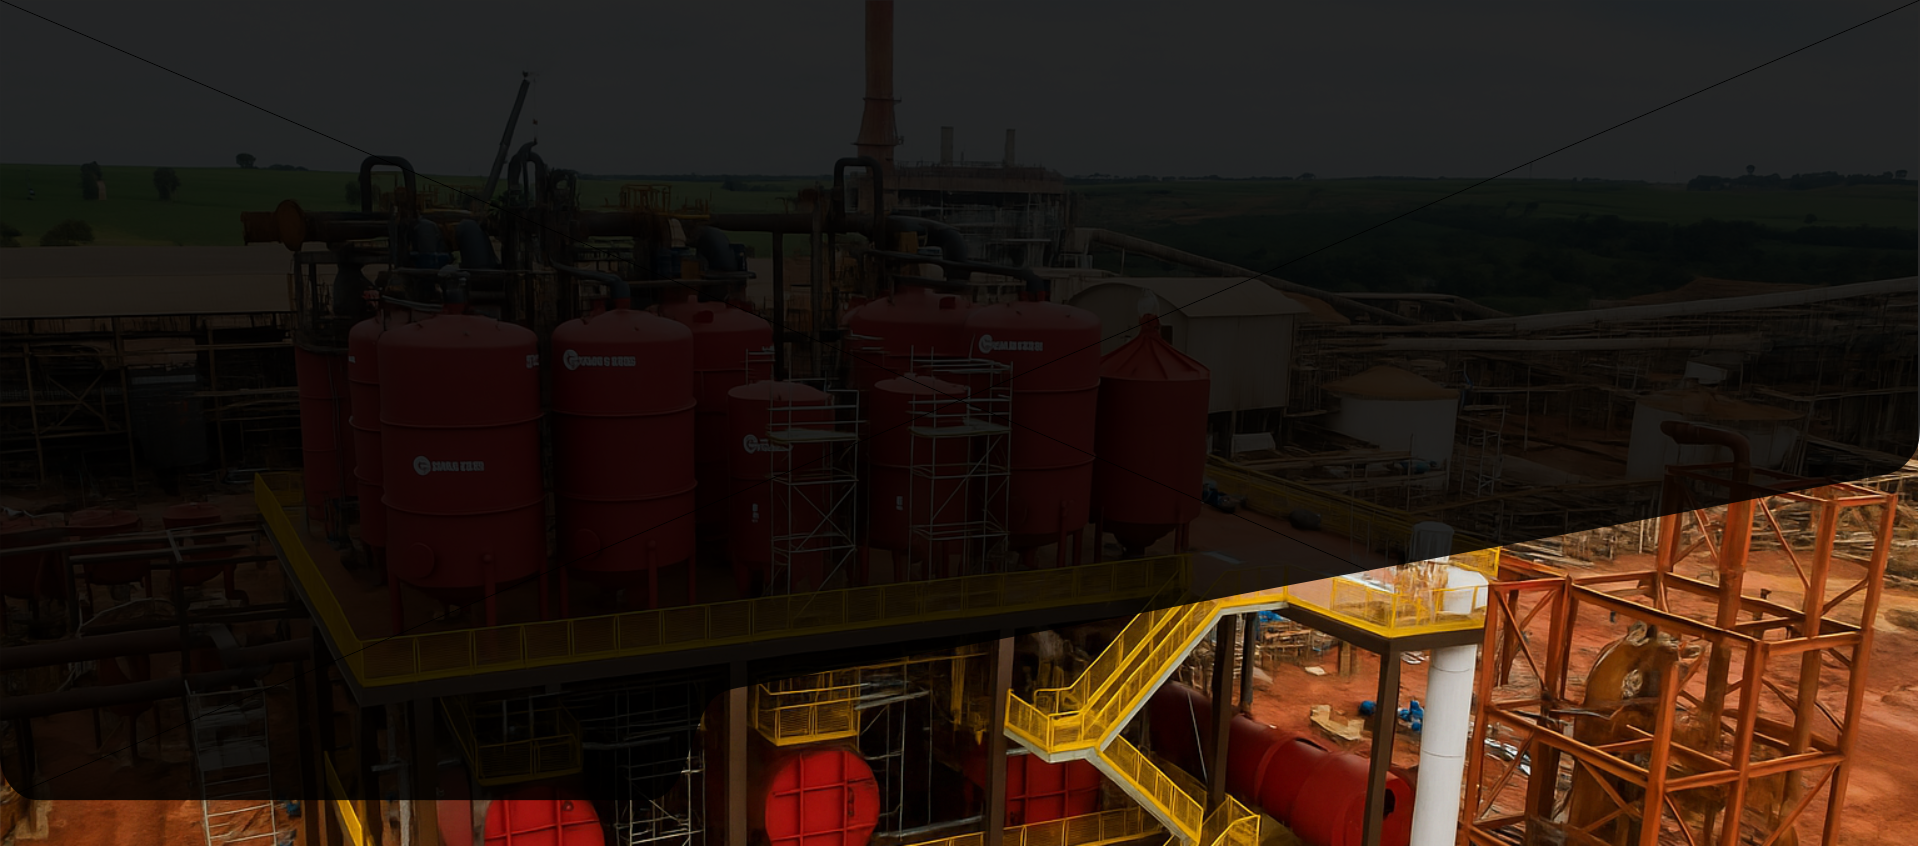
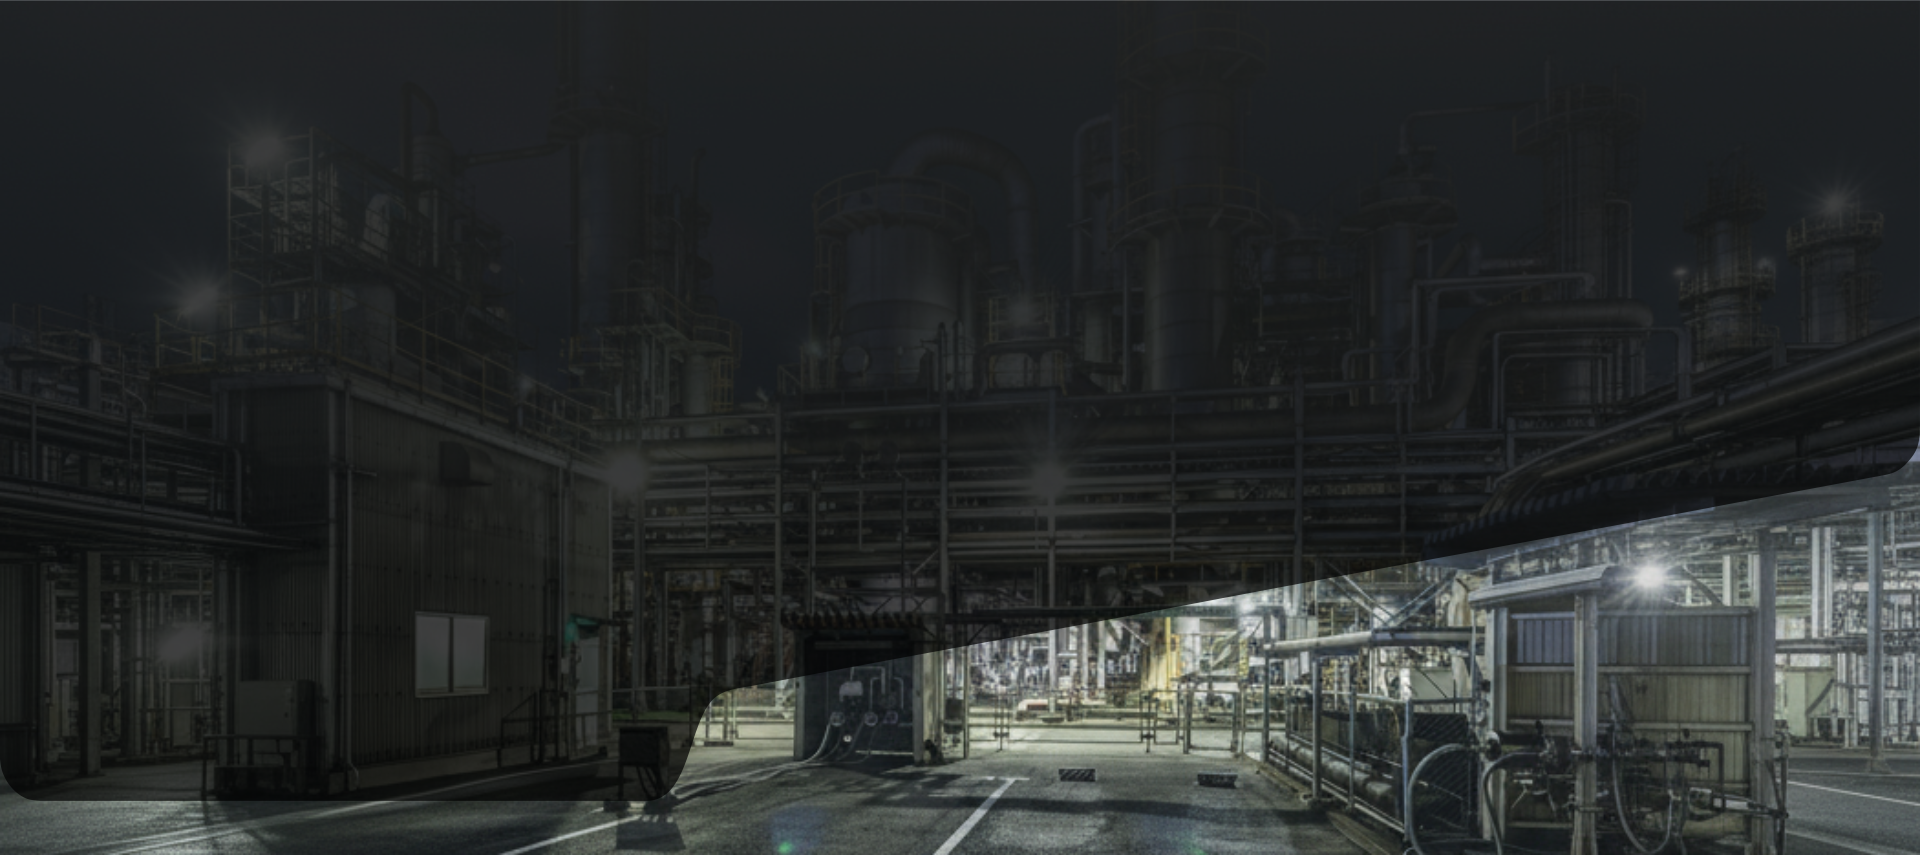
update site

diff --git a/pages/index.vue b/pages/index.vue
@@ -47,7 +47,7 @@
                 </div>
               </div>
             </div>
-            <div class="lg:w-[45%]"> 
+            <div class="lg:w-[45%] mt-8"> 
               <AtomImage :imageUrl="twaCompany" width="100%" height="auto" class="rounded-lg" />
             </div>
           </div>
@@ -66,7 +66,7 @@
       </v-col>
       <v-col cols="12" md="3" class="p-4 bg-white flex align-center justify-center h-[200px]">
         <div class="text-center">
-          <AtomCounting targetNumber="300" class="text-black" :plus="true" :duration="3000" />
+          <AtomCounting targetNumber="400" class="text-black" :plus="true" :duration="3000" />
           <div class="text-xl mt-2">colaboradores</div>
         </div>
       </v-col>
@@ -132,8 +132,8 @@
         <AtomAnimationFocus>
           <div class="flex align-start mb-4">
             <div class="w-[100%]">
-              <div class="text-xl text-red mb-2">Qualidade em </div>
-              <div class="text-3xl">Nossos Serviços</div>
+              <!-- <div class="text-xl text-red mb-2">Qualidade em </div> -->
+              <div class="text-3xl text-red mt-4">Nossos Serviços</div>
               <div class="flex">
                 <!-- <div class="pa-8">Video ou Foto</div> -->
                 <div class="lg:pr-8">
@@ -152,10 +152,12 @@
         </AtomAnimationFocus>
         <AtomAnimationFocus>
           <div class="lg:flex align-start">
-            <div class="lg:w-[27%] my-8 my-md-0"> 
-              <AtomImage :imageUrl="manufacturingMountain" width="100%" height="auto" class="rounded-lg" />
+            <div class="lg:w-[40%] my-8 my-md-0"> 
+              <div class="lg:flex align-start w-full">
+                <MoleculeGalleryView :images="imagesMountList" :initialItemsPerLine="3" />
+              </div>
             </div>
-            <div class="lg:w-[73%] lg:ml-10">
+            <div class="lg:w-[60%] lg:ml-10">
               <div class="text-3xl">Fabricação e Montagem de Equipamentos Industriais</div>
               <div class="flex">
                 <div class="lg:pr-8">
@@ -186,7 +188,7 @@
         </AtomAnimationFocus>
         <AtomAnimationFocus>
           <div class="lg:flex align-start mt-10 ">
-            <div class="lg:w-[73%]">
+            <div class="lg:w-[60%]">
               <div class="text-xl text-red mb-2">Manutenção de</div>
               <div class="text-3xl">Equipamentos Industriais</div>
               <div class="flex">
@@ -201,9 +203,11 @@
                   </div>
                 </div>
               </div>
-              <div class="lg:w-[27%] my-8 my-lg-0 flex lg:hidden"> 
-                <AtomImage :imageUrl="maintenance" width="100%" height="auto" class="rounded-lg" />
+             <div class="lg:w-[40%] my-8 my-lg-0 flex lg:hidden"> 
+              <div class="lg:flex align-start w-full">
+                <MoleculeGalleryView :images="imagesManutList" :initialItemsPerLine="3" />
               </div>
+            </div>
               <div class="text-center text-md-start mt-8 mb-10 lg:mb-0">
                 <AtomButton size="large" color="red" class="text-white text-body-1" @click="goToPage('manutencao')">
                   <div class="flex align-center">
@@ -214,36 +218,19 @@
                 </AtomButton>
               </div>
             </div>
-            <div class="lg:w-[27%] my-8 my-lg-0 lg:flex hidden"> 
-              <AtomImage :imageUrl="maintenance" width="100%" height="auto" class="rounded-lg" />
+            <div class="lg:w-[40%] my-8 my-lg-0 lg:flex hidden"> 
+              <div class="lg:flex align-start w-full">
+                <MoleculeGalleryView :images="imagesManutList" :initialItemsPerLine="3" />
+              </div>
             </div>
           </div>
         </AtomAnimationFocus>
         <AtomAnimationFocus>
           <div class="lg:flex align-start mt-10">
-            <div class="lg:w-[35%] hidden lg:flex lg:mr-10"> 
-              <v-row>
-                <v-col cols="6" md="4">
-                  <div class="rounded-lg" :style="`background: url(${locacao1}); width: 100%; height:150px; background-size:cover`"></div>
-                </v-col>
-                <v-col cols="6" md="4">
-                  <div class="rounded-lg" :style="`background: url(${locacao2}); width: 100%; height:150px; background-size:cover`"></div>
-                </v-col>
-                <v-col cols="6" md="4">
-                  <div class="rounded-lg" :style="`background: url(${locacao3}); width: 100%; height:150px; background-size:cover`"></div>
-                </v-col>
-                <v-col cols="6" md="4">
-                  <div class="rounded-lg" :style="`background: url(${locacao4}); width: 100%; height:150px; background-size:cover`"></div>
-                </v-col>
-                <v-col cols="6" md="4">
-                  <div class="rounded-lg" :style="`background: url(${locacao5}); width: 100%; height:150px; background-size:cover`"></div>
-                </v-col>
-                <v-col cols="6" md="4">
-                  <div class="rounded-lg" :style="`background: url(${locacao6}); width: 100%; height:150px; background-size:cover`"></div>
-                </v-col>
-              </v-row>
+            <div class="lg:w-[40%] hidden lg:flex lg:mr-10"> 
+              <MoleculeGalleryView :images="imagesLocList" :initialItemsPerLine="3" :height="150" />
             </div>
-            <div class="lg:w-[65%]">
+            <div class="lg:w-[60%]">
               <div class="text-xl text-red mb-2">Locação de</div>
               <div class="text-3xl">Guindastes e Guindauto</div>
               <div class="flex">
@@ -258,27 +245,8 @@
                   </div>
                 </div>
               </div>
-              <div class="lg:w-[35%] flex lg:hidden lg:mr-10 mt-8"> 
-                <v-row>
-                  <v-col cols="6" md="4">
-                    <div class="rounded-lg" :style="`background: url(${locacao1}); width: 100%; height:150px; background-size:cover`"></div>
-                  </v-col>
-                  <v-col cols="6" md="4">
-                    <div class="rounded-lg" :style="`background: url(${locacao2}); width: 100%; height:150px; background-size:cover`"></div>
-                  </v-col>
-                  <v-col cols="6" md="4">
-                    <div class="rounded-lg" :style="`background: url(${locacao3}); width: 100%; height:150px; background-size:cover`"></div>
-                  </v-col>
-                  <v-col cols="6" md="4">
-                    <div class="rounded-lg" :style="`background: url(${locacao4}); width: 100%; height:150px; background-size:cover`"></div>
-                  </v-col>
-                  <v-col cols="6" md="4">
-                    <div class="rounded-lg" :style="`background: url(${locacao5}); width: 100%; height:150px; background-size:cover`"></div>
-                  </v-col>
-                  <v-col cols="6" md="4">
-                    <div class="rounded-lg" :style="`background: url(${locacao6}); width: 100%; height:150px; background-size:cover`"></div>
-                  </v-col>
-                </v-row>
+              <div class="lg:w-[40%] flex lg:hidden lg:mr-10 mt-8"> 
+                <MoleculeGalleryView :images="imagesLocList" :initialItemsPerLine="3" :height="150" />
               </div>
               <div class="text-center text-md-start mt-8">
                 <AtomButton size="large" color="red" class="text-white text-body-1" @click="goToPage('locacao-guindastes')">
@@ -303,6 +271,8 @@ import nestle from '@/assets/images/clientes/nestle.jpg';
 import saoMartinho from '@/assets/images/clientes/sao-martinho.jpg';
 import adm from '@/assets/images/clientes/adm.jpg';
 import abengoa from '@/assets/images/clientes/abengoa.jpg';
+import jalles from '@/assets/images/clientes/jalles.jpg';
+import bauducco from '@/assets/images/clientes/bauducco.jpg';
 import delta from '@/assets/images/clientes/delta.jpg';
 import agropeu from '@/assets/images/clientes/agropeu.jpg';
 import klabin from '@/assets/images/clientes/klabin.jpg';
@@ -317,12 +287,22 @@ import treinamento from '@/assets/images/treinamento.jpg';
 import manufacturingPeople from '@/assets/images/manufacturing-people.jpg';
 import maintenance from '@/assets/images/maintenance.jpeg';
 import manufacturingMountain from '@/assets/images/manufacturing-mountain.jpeg';
-import locacao1 from '@/assets/images/locacao1.jpg';
-import locacao2 from '@/assets/images/locacao2.jpg';
-import locacao3 from '@/assets/images/locacao3.jpg';
-import locacao4 from '@/assets/images/locacao4.jpg';
-import locacao5 from '@/assets/images/locacao5.jpg';
-import locacao6 from '@/assets/images/locacao6.jpg';
+import locacao1 from '@/assets/images/locacao1.jpeg';
+import locacao2 from '@/assets/images/locacao2.jpeg';
+import locacao3 from '@/assets/images/locacao3.jpeg';
+import locacao4 from '@/assets/images/locacao4.jpeg';
+import locacao5 from '@/assets/images/locacao5.jpeg';
+import locacao6 from '@/assets/images/locacao6.jpeg';
+import locacao7 from '@/assets/images/locacao7.jpeg';
+import locacao8 from '@/assets/images/locacao8.jpeg';
+import locacao9 from '@/assets/images/locacao9.jpeg';
+
+import montagem1 from '@/assets/images/montagem1.jpeg';
+import montagem2 from '@/assets/images/montagem2.jpeg';
+import montagem3 from '@/assets/images/montagem3.jpeg';
+import manutencaoLavador from '@/assets/images/manutencao-lavador-de-gases.jpg';
+import manutencaoAquecedores from '@/assets/images/manutencao-aquecedores.jpeg';
+import manutencaoEvaporadores from '@/assets/images/manutencao-evaporadores.jpeg';
 
 
   definePageMeta({
@@ -340,6 +320,30 @@ import locacao6 from '@/assets/images/locacao6.jpg';
   const banners = [
     // {id: 1, url: qualidadeConstrucao},
     // {id: 2, url: locacao}
+  ]
+
+  const imagesMountList = [
+    montagem1,
+    montagem2,
+    montagem3,
+  ]
+
+  const imagesManutList = [
+    manutencaoLavador,
+    manutencaoAquecedores,
+    manutencaoEvaporadores,
+  ]
+
+  const imagesLocList = [
+    locacao1,
+    locacao2,
+    locacao3,
+    locacao4,
+    locacao5,
+    locacao6,
+    locacao7,
+    locacao8,
+    locacao9,
   ]
 
   const trainingList = [
@@ -399,6 +403,8 @@ import locacao6 from '@/assets/images/locacao6.jpg';
     {id: 2, url: saoMartinho},
     {id: 2, url: adm},
     {id: 2, url: abengoa},
+    {id: 2, url: bauducco},
+    {id: 2, url: jalles},
     {id: 2, url: delta},
     {id: 2, url: agropeu},
     {id: 2, url: klabin},

diff --git a/pages/locacao-guindastes.vue b/pages/locacao-guindastes.vue
@@ -6,51 +6,13 @@
       <hr class="mb-4"/>
       <div class="lg:flex align-start mt-10">
           <div class="lg:w-[40%] lg:mr-10 hidden lg:flex"> 
-            <v-row>
-              <v-col cols="6" md="4">
-                <div class="rounded-lg" :style="`background: url(${locacao1}); width: 100%; height:150px; background-size:cover`"></div>
-              </v-col>
-              <v-col cols="6" md="4">
-                <div class="rounded-lg" :style="`background: url(${locacao2}); width: 100%; height:150px; background-size:cover`"></div>
-              </v-col>
-              <v-col cols="6" md="4">
-                <div class="rounded-lg" :style="`background: url(${locacao3}); width: 100%; height:150px; background-size:cover`"></div>
-              </v-col>
-              <v-col cols="6" md="4">
-                <div class="rounded-lg" :style="`background: url(${locacao4}); width: 100%; height:150px; background-size:cover`"></div>
-              </v-col>
-              <v-col cols="6" md="4">
-                <div class="rounded-lg" :style="`background: url(${locacao5}); width: 100%; height:150px; background-size:cover`"></div>
-              </v-col>
-              <v-col cols="6" md="4">
-                <div class="rounded-lg" :style="`background: url(${locacao6}); width: 100%; height:150px; background-size:cover`"></div>
-              </v-col>
-            </v-row>
+            <MoleculeGalleryView :images="imagesLocList" :initialItemsPerLine="3" :height="150" />
           </div>
           <div class="lg:w-[60%]">
             <div class="text-xl text-red mb-2">Locação de</div>
             <div class="text-3xl">Guindastes e Guindauto</div>
             <div class="lg:w-[40%] lg:mr-10 flex lg:hidden my-4 my-lg-0"> 
-              <v-row>
-                <v-col cols="6" md="4">
-                  <div class="rounded-lg" :style="`background: url(${locacao1}); width: 100%; height:150px; background-size:cover`"></div>
-                </v-col>
-                <v-col cols="6" md="4">
-                  <div class="rounded-lg" :style="`background: url(${locacao2}); width: 100%; height:150px; background-size:cover`"></div>
-                </v-col>
-                <v-col cols="6" md="4">
-                  <div class="rounded-lg" :style="`background: url(${locacao3}); width: 100%; height:150px; background-size:cover`"></div>
-                </v-col>
-                <v-col cols="6" md="4">
-                  <div class="rounded-lg" :style="`background: url(${locacao4}); width: 100%; height:150px; background-size:cover`"></div>
-                </v-col>
-                <v-col cols="6" md="4">
-                  <div class="rounded-lg" :style="`background: url(${locacao5}); width: 100%; height:150px; background-size:cover`"></div>
-                </v-col>
-                <v-col cols="6" md="4">
-                  <div class="rounded-lg" :style="`background: url(${locacao6}); width: 100%; height:150px; background-size:cover`"></div>
-                </v-col>
-              </v-row>
+              <MoleculeGalleryView :images="imagesLocList" :initialItemsPerLine="3" :height="150" />
             </div>
             <div class="flex">
               <div class="lg:pr-8">
@@ -90,12 +52,15 @@
 </template>
 
 <script setup>
-import locacao1 from '@/assets/images/locacao1.jpg';
-import locacao2 from '@/assets/images/locacao2.jpg';
-import locacao3 from '@/assets/images/locacao3.jpg';
-import locacao4 from '@/assets/images/locacao4.jpg';
-import locacao5 from '@/assets/images/locacao5.jpg';
-import locacao6 from '@/assets/images/locacao6.jpg';
+import locacao1 from '@/assets/images/locacao1.jpeg';
+import locacao2 from '@/assets/images/locacao2.jpeg';
+import locacao3 from '@/assets/images/locacao3.jpeg';
+import locacao4 from '@/assets/images/locacao4.jpeg';
+import locacao5 from '@/assets/images/locacao5.jpeg';
+import locacao6 from '@/assets/images/locacao6.jpeg';
+import locacao7 from '@/assets/images/locacao7.jpeg';
+import locacao8 from '@/assets/images/locacao8.jpeg';
+import locacao9 from '@/assets/images/locacao9.jpeg';
 
   definePageMeta({
 		layout: 'home',
@@ -104,6 +69,19 @@ import locacao6 from '@/assets/images/locacao6.jpg';
 
   const { t } = useI18n()
 	const title = `${t('pageTitle', { page: t('craneRental.pageTitle') })}`
+
+  
+  const imagesLocList = [
+    locacao1,
+    locacao2,
+    locacao3,
+    locacao4,
+    locacao5,
+    locacao6,
+    locacao7,
+    locacao8,
+    locacao9,
+  ]
 
 	useHead({
 		title: title

diff --git a/pages/qualidade.vue b/pages/qualidade.vue
@@ -67,11 +67,11 @@
       <div class="flex flex-col w-full max-w-[600px] mt-10">
         <span class="text-xl text-red">Fale com a</span>
         <span class="text-2xl mb-4">TWA Equipamentos agora mesmo!</span>
-        <span class="text-sm text-grey500">
-          Entre em contato com a Equipe do Comercial da TWA Equipamentos agora mesmo e tire todas as suas dúvidas sobre a locação de Guindastes e Guindautos, solicite seu orçamento e tenha um serviço de extrema qualidade e segurança.
+        <span class="text-md text-grey500">
+          Entre em contato com a Equipe do Comercial da TWA Equipamentos agora mesmo e tire todas as suas dúvidas, solicite seu orçamento e tenha um serviço de extrema qualidade e segurança.
         </span>
       </div>
-      <div class="my-4 w-[255px]">
+      <div class="mt-4 w-[255px]">
         <NuxtLink :to="`https://wa.me/5516981735919?text=${encodeURIComponent('Olá! Gostaria de tirar dúvidas sobre locação de Guindastes e Guindautos.')}`" class="highlight-menu text-uppercase text-sm bg-green rounded-md p-2 flex align-center" target="_blank">
           <AtomIcon name="WhatsappFull" filled class="!w-6 !h-6 mr-2"></AtomIcon>
           <span>Falar com a equipe da TWA</span> 

diff --git a/pages/fabricacao-montagem-equipamentos-industriais.vue b/pages/fabricacao-montagem-equipamentos-industriais.vue
@@ -70,8 +70,8 @@
       <div class="flex flex-col w-full max-w-[600px] mt-10">
         <span class="text-xl text-red">Fale com a</span>
         <span class="text-2xl mb-4">TWA Equipamentos agora mesmo!</span>
-        <span class="text-sm text-grey500">
-          Entre em contato com a Equipe do Comercial da TWA Equipamentos agora mesmo e tire todas as suas dúvidas sobre a locação de Guindastes e Guindautos, solicite seu orçamento e tenha um serviço de extrema qualidade e segurança.
+        <span class="text-md text-grey500">
+          Entre em contato com a Equipe do Comercial da TWA Equipamentos agora mesmo e tire todas as suas dúvidas, solicite seu orçamento e tenha um serviço de extrema qualidade e segurança.
         </span>
       </div>
       <div class="mt-4 w-[255px]">

diff --git a/pages/projetos-executados.vue b/pages/projetos-executados.vue
@@ -69,8 +69,8 @@
       <div class="flex flex-col w-full max-w-[600px] mt-10">
         <span class="text-xl text-red">Fale com a</span>
         <span class="text-2xl mb-4">TWA Equipamentos agora mesmo!</span>
-        <span class="text-sm text-grey500">
-          Entre em contato com a Equipe do Comercial da TWA Equipamentos agora mesmo e tire todas as suas dúvidas sobre a locação de Guindastes e Guindautos, solicite seu orçamento e tenha um serviço de extrema qualidade e segurança.
+        <span class="text-md text-grey500">
+          Entre em contato com a Equipe do Comercial da TWA Equipamentos agora mesmo e tire todas as suas dúvidas, solicite seu orçamento e tenha um serviço de extrema qualidade e segurança.
         </span>
       </div>
       <div class="mt-4 w-[255px]">

diff --git a/components/molecule/GalleryView.vue b/components/molecule/GalleryView.vue
@@ -10,7 +10,7 @@
       <AtomImage
         :image-url="img"
         cover
-        height="350"
+        :height="height"
         width="100%"
       />
     </div>
@@ -38,7 +38,11 @@ const props = defineProps({
   initialItemsPerLine: {
     type: Number,
     default: 4
-  }
+  },
+  height: {
+    type: Number,
+    default: 350
+  },
 })
 
 const dialog = ref(false)
